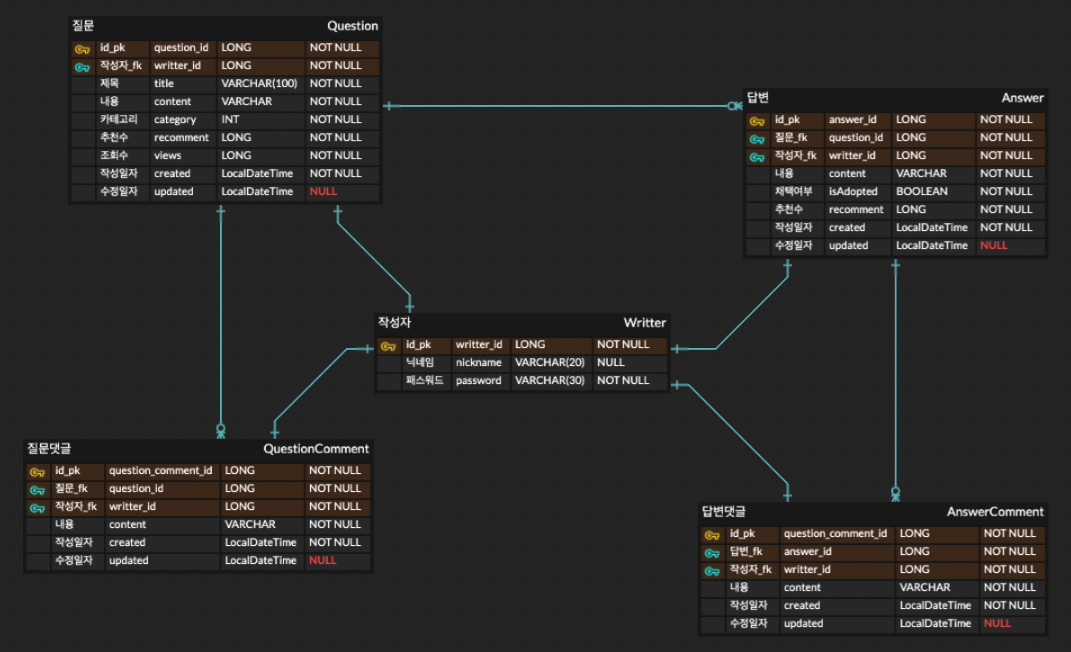
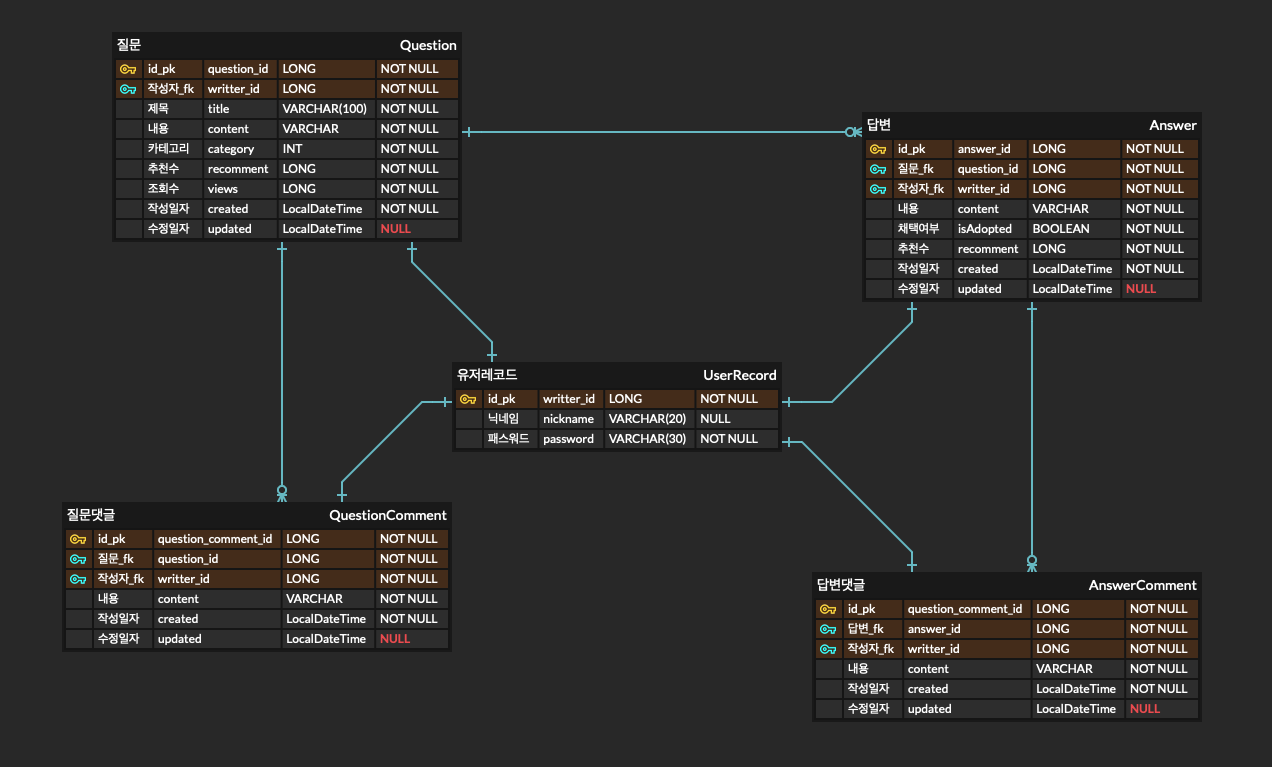
docs : erd update

diff --git a/ERD/ERD.MD b/ERD/ERD.MD
@@ -19,7 +19,7 @@
     - **닉네임** - 사용자가 글을 작성할 때 직접 입력한 닉네임
     - **패스워드** - 사용자가 글을 작성할 때 직접 입력한 패스워드, 패스워드 정보는 수정과 삭제의 기준이 되기에 암호화하여 저장
 
-    ! : 작성자라는 별도의 테이블로 나타내었지만, 이 테이블의 목적은 이후 회원기능을 구현하기 위해 데이터 관리를 확장 가능하도록 하는데에 의의가 있습니다.
+    ! :  작성자라는 별도의 테이블로 나타내었지만, 이 테이블의 목적은 이후 회원기능을 구현하기 위해 데이터 관리를 확장 가능하도록 하는데에 의의가 있습니다. 현재 프로젝트에서는 닉네임과 패스워드 정보만을 사용하고 있습니다. 그리고 포스트 1개가 생성이 되면 무조건 1개의 유저레코드가 생성되는 구조입니다. 이는 추후에 회원가입 기능을 구현할 때 마이그레이션을 고려하면서, 현재 주어진 프로젝트의 기본사양에서 크게 벗어나지 않는 선에서 구현하였습니다.
 
  &nbsp;
 
